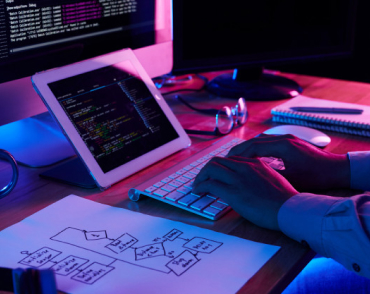
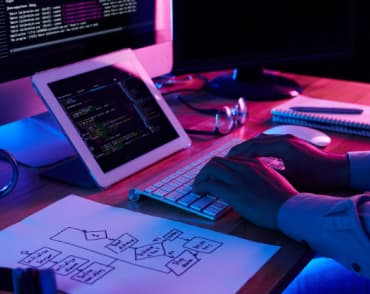
first

diff --git a/index.html b/index.html
@@ -68,8 +68,8 @@
             <h2 class="section_about_work--h2">Чим ми займаємось</h2>
             <div class="section_about_work--div">
                 <img class="section_about_work--img" src="/images/first.jpg" alt="">
-                <img class="section_about_work--img" src="/images/second.png" alt="">
-                <img class="section_about_work--img" src="/images/thirt.png" alt="">
+                <img class="section_about_work--img" src="/images/second.jpg" alt="">
+                <img class="section_about_work--img" src="/images/thirt.jpg" alt="">
             </div>
         </section>
         <section class="section_about_team">
@@ -91,7 +91,7 @@
                     <p class="section_about_team--p">Marketing</p>
                 </div>
                 <div class="section_about_team--info">
-                    <img class="section_about_team--img" src="/images/4team.png" alt="учасник команди 4">
+                    <img class="section_about_team--img" src="/images/4team.jpg" alt="учасник команди 4">
                     <h3 class="section_about_team--h3">Михайло Єрмаков</h3>
                     <p class="section_about_team--p">UL Desginer</p>
                 </div>

diff --git a/css/style.css b/css/style.css
@@ -54,7 +54,7 @@ body {
     display: block;
     width: 270px;
     height: 120px;
-    background-image: url(/images/antena.png);
+    background-image: url(/images/antena.jpg);
     background-size: cover;
     margin-bottom: 20px;
 }
@@ -66,7 +66,7 @@ body {
     display: block;
     width: 270px;
     height: 120px;
-    background-image: url(/images/clock.png);
+    background-image: url(/images/clock.jpg);
     background-size: cover;
     margin-bottom: 20px;
 }
@@ -77,7 +77,7 @@ body {
     display: block;
     width: 270px;
     height: 120px;
-    background-image: url(/images/computer.png);
+    background-image: url(/images/computer.jpg);
     background-size: cover;
     margin-bottom: 20px;
 }
@@ -88,7 +88,7 @@ body {
     display: block;
     width: 270px;
     height: 120px;
-    background-image: url(/images/starboy.png);
+    background-image: url(/images/starboy.jpg);
     background-size: cover;
     margin-bottom: 20px;
 }
@@ -295,6 +295,12 @@ li {
     margin: 0 15px 0 15px;
     background-color: white;
     height: 368px;
+    box-shadow: 0px 2px 1px 0px #00000033;
+
+    box-shadow: 0px 1px 1px 0px #00000024;
+
+    box-shadow: 0px 1px 3px 0px #0000001F;
+
 }
 
 
